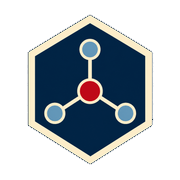
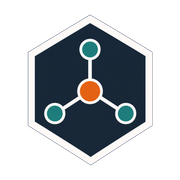
change palette

Changed region(s): [[0.1389, 0.0833, 0.8611, 0.9167]]

diff --git a/app/globals.css b/app/globals.css
@@ -1,13 +1,13 @@
 :root {
-  --ink: #003049;
-  --ink-soft: #315b70;
-  --paper: #fdf0d5;
-  --paper-deep: #f1dfb9;
-  --white: #fffaf0;
-  --line: #d6c6a8;
-  --terracotta: #c1121f;
-  --oxblood: #780000;
-  --sage: #669bbc;
+  --ink: #1c2733;
+  --ink-soft: #5c6773;
+  --paper: #faf8f4;
+  --paper-deep: #eef1f3;
+  --white: #faf8f4;
+  --line: color-mix(in srgb, #5c6773 28%, #faf8f4);
+  --terracotta: #d97d30;
+  --oxblood: #1c2733;
+  --sage: #2f8080;
   --serif: "Iowan Old Style", "Palatino Linotype", "Book Antiqua", Palatino,
     Georgia, serif;
   --sans: Inter, "Helvetica Neue", Helvetica, Arial, sans-serif;
@@ -110,7 +110,7 @@ img {
 
 .wordmark-mark {
   align-items: center;
-  background: var(--ink);
+  background: var(--sage);
   border-radius: 50%;
   color: var(--paper);
   display: inline-flex;
@@ -246,13 +246,14 @@ img {
 }
 
 .button-primary {
-  background: var(--ink);
-  color: var(--paper);
+  background: var(--terracotta);
+  border-color: var(--terracotta);
+  color: var(--ink);
 }
 
 .button-primary:hover,
 .button-primary:focus-visible {
-  background: var(--terracotta);
+  background: color-mix(in srgb, var(--terracotta) 84%, var(--paper));
   border-color: var(--terracotta);
 }
 
@@ -328,8 +329,11 @@ img {
 }
 
 .portrait-caption a {
-  color: var(--terracotta);
+  color: var(--ink);
   font-weight: 700;
+  text-decoration: underline;
+  text-decoration-color: var(--terracotta);
+  text-underline-offset: 3px;
 }
 
 .metrics-band {
@@ -346,7 +350,7 @@ img {
 
 .metrics-grid > div {
   align-items: baseline;
-  border-right: 1px solid rgba(253, 240, 213, 0.2);
+  border-right: 1px solid rgba(250, 248, 244, 0.2);
   display: flex;
   gap: 12px;
 }
@@ -421,6 +425,7 @@ img {
 }
 
 .focus-grid article {
+  background: var(--paper-deep);
   min-height: 330px;
   padding: 34px 32px 42px;
 }
@@ -430,7 +435,7 @@ img {
 }
 
 .focus-grid .focus-featured {
-  background: color-mix(in srgb, var(--sage) 15%, transparent);
+  background: color-mix(in srgb, var(--sage) 14%, var(--paper-deep));
 }
 
 .focus-grid span,
@@ -460,7 +465,7 @@ img {
 }
 
 .text-link {
-  border-bottom: 1px solid currentColor;
+  border-bottom: 1px solid var(--terracotta);
   display: inline-flex;
   font-size: 0.9rem;
   font-weight: 750;
@@ -468,6 +473,10 @@ img {
   letter-spacing: 0.07em;
   padding-bottom: 5px;
   text-transform: uppercase;
+}
+
+.text-link span {
+  color: var(--terracotta);
 }
 
 .publication-section {
@@ -489,7 +498,7 @@ img {
 .rss-link {
   align-items: center;
   background: var(--terracotta);
-  color: var(--white);
+  color: var(--ink);
   display: inline-flex;
   font-size: 0.84rem;
   font-weight: 750;
@@ -518,7 +527,7 @@ img {
 }
 
 .publication-card:hover {
-  background: color-mix(in srgb, var(--white) 54%, transparent);
+  background: var(--paper-deep);
 }
 
 .publication-index {
@@ -541,7 +550,9 @@ img {
 }
 
 .publication-meta span:first-child {
-  border: 1px solid var(--line);
+  background: color-mix(in srgb, var(--sage) 10%, var(--paper));
+  border: 1px solid var(--sage);
+  color: var(--ink);
   padding: 4px 7px;
 }
 
@@ -566,23 +577,19 @@ img {
   background-size: 100% 1px;
 }
 
-.publication-body > p {
-  color: var(--ink-soft);
-  font-size: 0.95rem;
-  line-height: 1.55;
-  margin: 0;
-}
-
 .publication-body > .publication-doi {
+  color: var(--ink-soft);
   font-size: 0.86rem;
+  line-height: 1.55;
   margin-top: 8px;
   overflow-wrap: anywhere;
 }
 
 .publication-doi a,
 .source-note a {
-  color: var(--terracotta);
+  color: var(--ink);
   text-decoration: underline;
+  text-decoration-color: var(--terracotta);
   text-underline-offset: 3px;
 }
 
@@ -638,14 +645,14 @@ img {
 }
 
 .footer-intro {
-  color: #bad0dc;
+  color: var(--paper-deep);
   line-height: 1.65;
   margin: 24px 0 26px;
   max-width: 480px;
 }
 
 .light-link {
-  color: #f3c6c9;
+  color: var(--terracotta);
   text-transform: none;
 }
 
@@ -671,7 +678,7 @@ img {
 .footer-details p,
 .footer-details a,
 .footer-nav a {
-  color: #e0ebf0;
+  color: var(--paper-deep);
   font-size: 0.94rem;
   line-height: 1.65;
   margin: 0;
@@ -687,8 +694,8 @@ img {
 
 .footer-base {
   align-items: center;
-  border-top: 1px solid rgba(253, 240, 213, 0.18);
-  color: #91b2c4;
+  border-top: 1px solid rgba(250, 248, 244, 0.18);
+  color: var(--paper-deep);
   display: flex;
   font-size: 0.82rem;
   justify-content: space-between;
@@ -913,7 +920,7 @@ img {
 }
 
 .research-hero-note {
-  border-top: 1px solid rgba(253, 240, 213, 0.35);
+  border-top: 1px solid rgba(250, 248, 244, 0.35);
   padding-top: 20px;
 }
 
@@ -926,7 +933,7 @@ img {
 }
 
 .research-hero-note p {
-  color: #bad0dc;
+  color: var(--paper-deep);
   font-family: var(--serif);
   font-size: 1.17rem;
   line-height: 1.6;
@@ -942,14 +949,14 @@ img {
 }
 
 .orbit-field span {
-  border: 1px solid rgba(193, 18, 31, 0.7);
+  border: 1px solid rgba(217, 125, 48, 0.7);
   border-radius: 50%;
   inset: 0;
   position: absolute;
 }
 
 .orbit-field span:nth-child(2) {
-  border-color: rgba(102, 155, 188, 0.55);
+  border-color: rgba(47, 128, 128, 0.65);
   inset: 100px;
 }
 
@@ -1022,8 +1029,10 @@ img {
 }
 
 .area-list li {
-  border: 1px solid var(--line);
+  background: color-mix(in srgb, var(--sage) 10%, var(--paper));
+  border: 1px solid var(--sage);
   border-radius: 99px;
+  color: var(--ink);
   font-size: 0.82rem;
   padding: 7px 10px;
 }
@@ -1035,7 +1044,7 @@ img {
 }
 
 .collaboration-section .section-heading > p {
-  color: #f1d7bc;
+  color: var(--paper-deep);
 }
 
 .close-collaborators {
@@ -1058,7 +1067,7 @@ img {
 }
 
 .collaborator-card {
-  background: var(--paper);
+  background: var(--paper-deep);
   color: var(--ink);
   display: flex;
   flex-direction: column;
@@ -1111,24 +1120,24 @@ img {
 }
 
 .collaboration-grid {
-  border-top: 1px solid rgba(253, 240, 213, 0.42);
+  border-top: 1px solid rgba(250, 248, 244, 0.42);
   display: grid;
   grid-template-columns: repeat(2, 1fr);
 }
 
 .collaboration-grid article {
-  border-bottom: 1px solid rgba(253, 240, 213, 0.42);
+  border-bottom: 1px solid rgba(250, 248, 244, 0.42);
   min-height: 280px;
   padding: 32px 48px 40px 0;
 }
 
 .collaboration-grid article:nth-child(even) {
-  border-left: 1px solid rgba(253, 240, 213, 0.42);
+  border-left: 1px solid rgba(250, 248, 244, 0.42);
   padding-left: 48px;
 }
 
 .collaboration-grid span {
-  color: #f3c6c9;
+  color: var(--terracotta);
   font-size: 0.83rem;
   font-weight: 750;
   letter-spacing: 0.12em;
@@ -1144,7 +1153,7 @@ img {
 }
 
 .collaboration-grid p {
-  color: #f3dfc9;
+  color: var(--paper-deep);
   font-size: 1rem;
   line-height: 1.68;
   margin: 0;
@@ -1190,7 +1199,7 @@ img {
 }
 
 .contact-primary p {
-  color: #bad0dc;
+  color: var(--paper-deep);
 }
 
 .contact-grid h3 {

diff --git a/app/layout.tsx b/app/layout.tsx
@@ -11,12 +11,12 @@ export const metadata: Metadata = {
     "Research in industrial chemistry, heterogeneous catalysis, Design of Experiments, machine learning, biomass valorisation, and circular chemical processes at the University of Bologna.",
   icons: {
     icon: [
-      { url: "/favicon-32.png?v=2", sizes: "32x32", type: "image/png" },
-      { url: "/favicon.png?v=2", sizes: "512x512", type: "image/png" },
+      { url: "/favicon-32.png?v=3", sizes: "32x32", type: "image/png" },
+      { url: "/favicon.png?v=3", sizes: "512x512", type: "image/png" },
     ],
     apple: [
       {
-        url: "/apple-touch-icon.png?v=2",
+        url: "/apple-touch-icon.png?v=3",
         sizes: "180x180",
         type: "image/png",
       },

diff --git a/app/components/PublicationFeed.tsx b/app/components/PublicationFeed.tsx
@@ -51,7 +51,6 @@ export function PublicationFeed({
                   {publication.title}
                 </a>
               </h3>
-              <p>{publication.authors}</p>
               <p className="publication-doi">
                 DOI:{" "}
                 {publication.doi ? (

diff --git a/app/data.ts b/app/data.ts
@@ -2,7 +2,6 @@ import scopusData from "./scopus-data.json";
 
 export type Publication = {
   title: string;
-  authors: string;
   venue: string;
   year: number;
   date: string;
